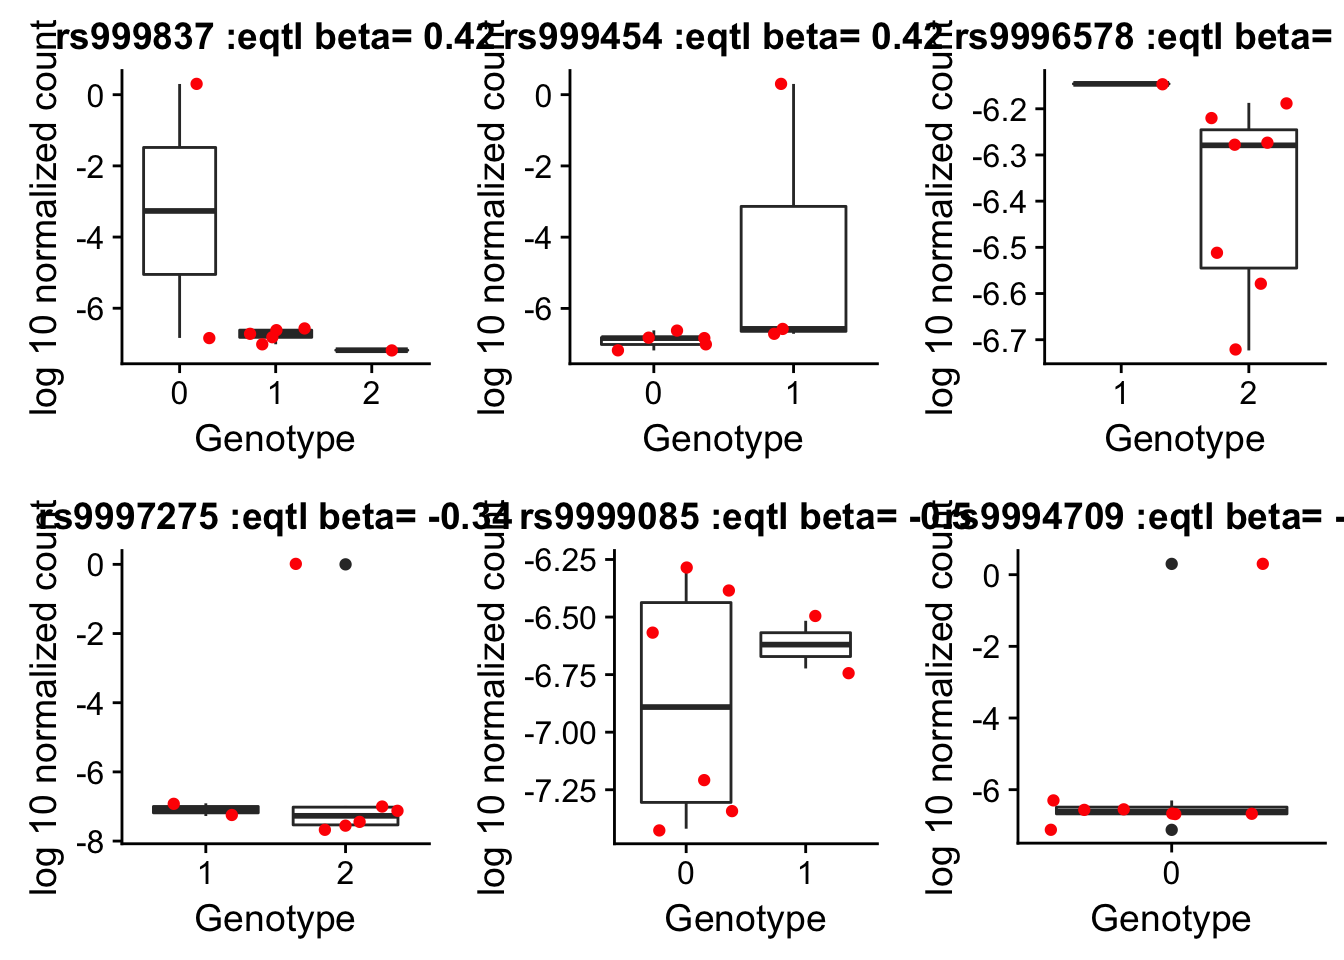
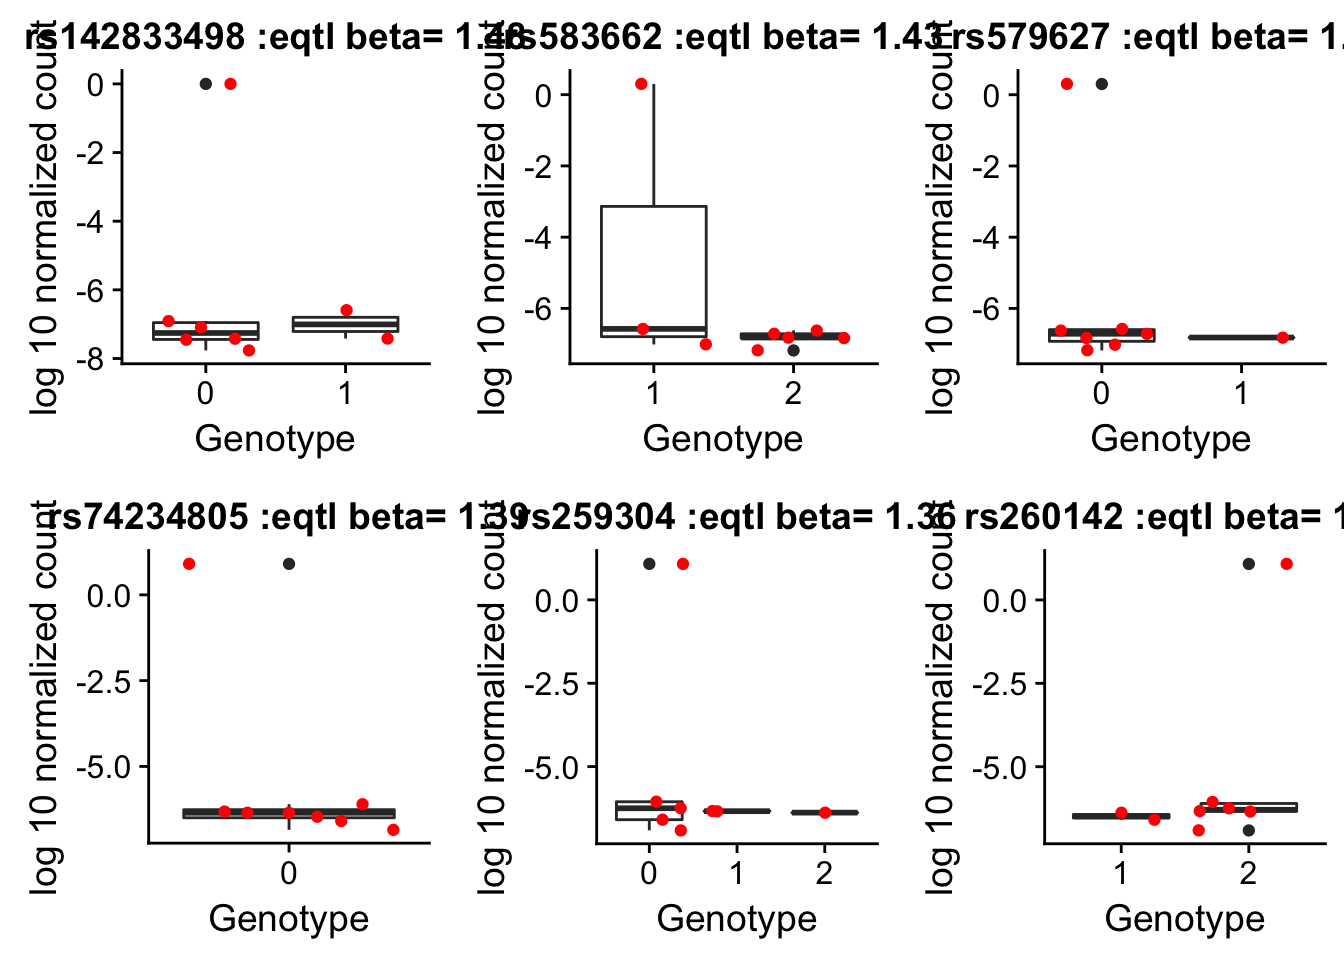
Build site.

diff --git a/docs/eqtl_bystrand.html b/docs/eqtl_bystrand.html
@@ -313,7 +313,7 @@ shared across the workflowr files. -->
 <p><strong>Last updated:</strong> 2018-04-09</p>
 <!-- Insert the code version (Git commit SHA1) if Git repository exists and R
  package git2r is installed -->
-<p><strong>Code version:</strong> 8c47a2b</p>
+<p><strong>Code version:</strong> 9c9ad94</p>
 <!-- Add your analysis here -->
 <p>I will use this analysis to answer the question: Do eQTLs also equally affect antisense transcriptions? This will take advantage of strand specificity of the net-seq data and the phenominon of convergent and divergent transcription around TSS.</p>
 <p>Workflow:</p>
@@ -579,39 +579,50 @@ all_exp_both= cbind(all_same_strand[,1:6],all_18486,all_18505,all_18508, all_191
   return(plot)
 }</code></pre>
 <p>Sort the eqtls by effect size and run my function on top 10:</p>
-<pre class="r"><code>top_10_effect=eqtl_gene_filter_rs %&gt;% arrange(desc(beta))  %&gt;% semi_join(geno_netpilot_eqtl_round, by=&quot;ID&quot;) %&gt;%  semi_join(all_exp_both, by=&quot;gene&quot;) %&gt;% select(ID) %&gt;% top_n(10)</code></pre>
-<pre><code>Selecting by ID</code></pre>
+<pre class="r"><code>top_10_effect=eqtl_gene_filter_rs %&gt;% arrange(desc(beta))  %&gt;% semi_join(geno_netpilot_eqtl_round, by=&quot;ID&quot;) %&gt;%  semi_join(all_exp_both, by=&quot;gene&quot;) %&gt;%  top_n(20) %&gt;% select(ID)</code></pre>
+<pre><code>Selecting by beta</code></pre>
 <pre class="r"><code>print(top_10_effect)</code></pre>
-<pre><code>          ID
-1   rs999837
-2   rs999454
-3  rs9996578
-4  rs9994286
-5  rs9997275
-6  rs9999085
-7   rs999454
-8   rs999837
-9  rs9994709
-10 rs9994709</code></pre>
-<pre class="r"><code>rs999837_plot=by_geno_exp(&quot;rs999837&quot;)</code></pre>
+<pre><code>            ID
+1  rs142833498
+2     rs583662
+3     rs581956
+4     rs579627
+5     rs579713
+6     rs579450
+7     rs577760
+8     rs580388
+9     rs576932
+10    rs573205
+11    rs572878
+12    rs574927
+13    rs575083
+14    rs575159
+15  rs74234805
+16  rs11883894
+17    rs259304
+18    rs260747
+19   rs7268500
+20    rs260142
+21    rs260182</code></pre>
+<pre class="r"><code>rs142833498_plot=by_geno_exp(&quot;rs142833498&quot;)</code></pre>
 <pre><code>Selecting by gene</code></pre>
 <pre><code>Selecting by beta</code></pre>
-<pre class="r"><code>rs999454_plot=by_geno_exp(&quot;rs999454&quot;)</code></pre>
+<pre class="r"><code>rs583662_plot=by_geno_exp(&quot;rs583662&quot;)</code></pre>
 <pre><code>Selecting by gene
 Selecting by beta</code></pre>
-<pre class="r"><code>rs9996578_plot=by_geno_exp(&quot;rs9996578&quot;)</code></pre>
+<pre class="r"><code>rs579627_plot=by_geno_exp(&quot;rs579627&quot;)</code></pre>
 <pre><code>Selecting by gene
 Selecting by beta</code></pre>
-<pre class="r"><code>rs9997275_plot=by_geno_exp(&quot;rs9997275&quot;)</code></pre>
+<pre class="r"><code>rs74234805_plot=by_geno_exp(&quot;rs74234805&quot;)</code></pre>
 <pre><code>Selecting by gene
 Selecting by beta</code></pre>
-<pre class="r"><code>rs9999085_plot=by_geno_exp(&quot;rs9999085&quot;)</code></pre>
+<pre class="r"><code>rs259304_plot=by_geno_exp(&quot;rs259304&quot;)</code></pre>
 <pre><code>Selecting by gene
 Selecting by beta</code></pre>
-<pre class="r"><code>rs9994709_plot=by_geno_exp(&quot;rs9994709&quot;)</code></pre>
+<pre class="r"><code>rs260142plot=by_geno_exp(&quot;rs260142&quot;)</code></pre>
 <pre><code>Selecting by gene
 Selecting by beta</code></pre>
-<pre class="r"><code>plot_grid(rs999837_plot,rs999454_plot,rs9996578_plot,rs9997275_plot,rs9999085_plot,rs9994709_plot)</code></pre>
+<pre class="r"><code>plot_grid(rs142833498_plot,rs583662_plot,rs579627_plot,rs74234805_plot,rs259304_plot,rs260142plot)</code></pre>
 <p><img src="figure/eqtl_bystrand.Rmd/unnamed-chunk-36-1.png" width="672" style="display: block; margin: auto;" /></p>
 <p>There are 16362 eqtls that we have genotype and expression information for.</p>
 </div>
@@ -719,25 +730,25 @@ t_19257_gene= s_19257_gene %&gt;% left_join(o_19257_gene, by=c(&quot;chr&quot;, 
   plot=ggplot(x, aes(y=log10(V2), x=V1)) + geom_boxplot() + geom_jitter(col=&quot;red&quot;) + ggtitle(paste(rsID,&quot;:eqtl beta=&quot;,round(as.numeric(beta),2))) + xlab(&quot;Genotype&quot;) + ylab(&quot;log 10 normalized count&quot;)
   return(plot)
 }</code></pre>
-<pre class="r"><code>rs999837_plot_g=by_geno_exp_gene(&quot;rs999837&quot;)</code></pre>
+<pre class="r"><code>rs142833498_plot_g=by_geno_exp_gene(&quot;rs142833498&quot;)</code></pre>
 <pre><code>Selecting by gene</code></pre>
 <pre><code>Selecting by beta</code></pre>
-<pre class="r"><code>rs999454_plot_g=by_geno_exp_gene(&quot;rs999454&quot;)</code></pre>
+<pre class="r"><code>rs583662_plot_g=by_geno_exp_gene(&quot;rs583662&quot;)</code></pre>
 <pre><code>Selecting by gene
 Selecting by beta</code></pre>
-<pre class="r"><code>rs9996578_plot_g=by_geno_exp_gene(&quot;rs9996578&quot;)</code></pre>
+<pre class="r"><code>rs579627_plot_g=by_geno_exp_gene(&quot;rs579627&quot;)</code></pre>
 <pre><code>Selecting by gene
 Selecting by beta</code></pre>
-<pre class="r"><code>rs9997275_plot_g=by_geno_exp_gene(&quot;rs9997275&quot;)</code></pre>
+<pre class="r"><code>rs74234805_plot_g=by_geno_exp_gene(&quot;rs74234805&quot;)</code></pre>
 <pre><code>Selecting by gene
 Selecting by beta</code></pre>
-<pre class="r"><code>rs9999085_plot_g=by_geno_exp_gene(&quot;rs9999085&quot;)</code></pre>
+<pre class="r"><code>rs259304_plot_g=by_geno_exp_gene(&quot;rs259304&quot;)</code></pre>
 <pre><code>Selecting by gene
 Selecting by beta</code></pre>
-<pre class="r"><code>rs9994709_plot_g=by_geno_exp_gene(&quot;rs9994709&quot;)</code></pre>
+<pre class="r"><code>rs260142plot_g=by_geno_exp_gene(&quot;rs260142&quot;)</code></pre>
 <pre><code>Selecting by gene
 Selecting by beta</code></pre>
-<pre class="r"><code>plot_grid(rs999837_plot_g,rs999454_plot_g,rs9996578_plot_g,rs9997275_plot_g,rs9999085_plot_g,rs9994709_plot_g) + ggtitle(&quot;Netseq gene counts for eqtl gene&quot;)</code></pre>
+<pre class="r"><code>plot_grid(rs142833498_plot_g,rs583662_plot_g,rs579627_plot_g,rs74234805_plot_g,rs259304_plot_g,rs260142plot_g)</code></pre>
 <p><img src="figure/eqtl_bystrand.Rmd/unnamed-chunk-45-1.png" width="672" style="display: block; margin: auto;" /></p>
 </div>
 <div id="session-information" class="section level3">
